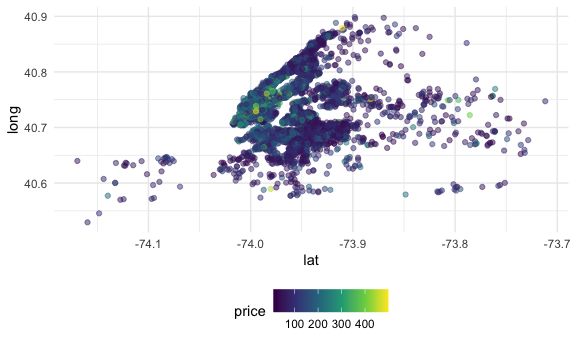
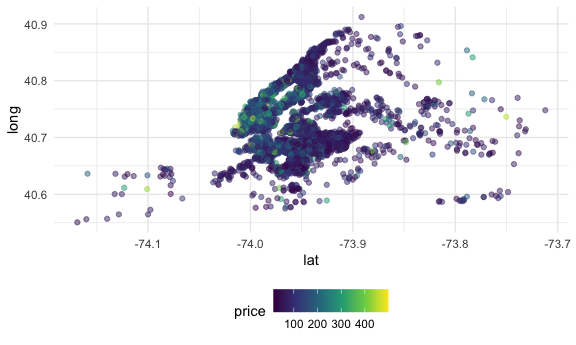
exploratory stuff

diff --git a/case_study.md b/case_study.md
@@ -146,3 +146,13 @@ nyc_airbnb %>%
 <img src="case_study_files/figure-gfm/unnamed-chunk-7-1.png" width="90%" />
 
 ## Leaflet
+
+``` r
+pal <- colorNumeric("viridis", NULL)
+nyc_airbnb %>% 
+  filter(price < 500) %>% 
+  sample_n(1000) %>% 
+  leaflet() %>% 
+  addProviderTiles(providers$CartoDB.Positron) %>% 
+  addCircleMarkers(~lat, ~long, radius = 1, color = ~pal(price))
+```
